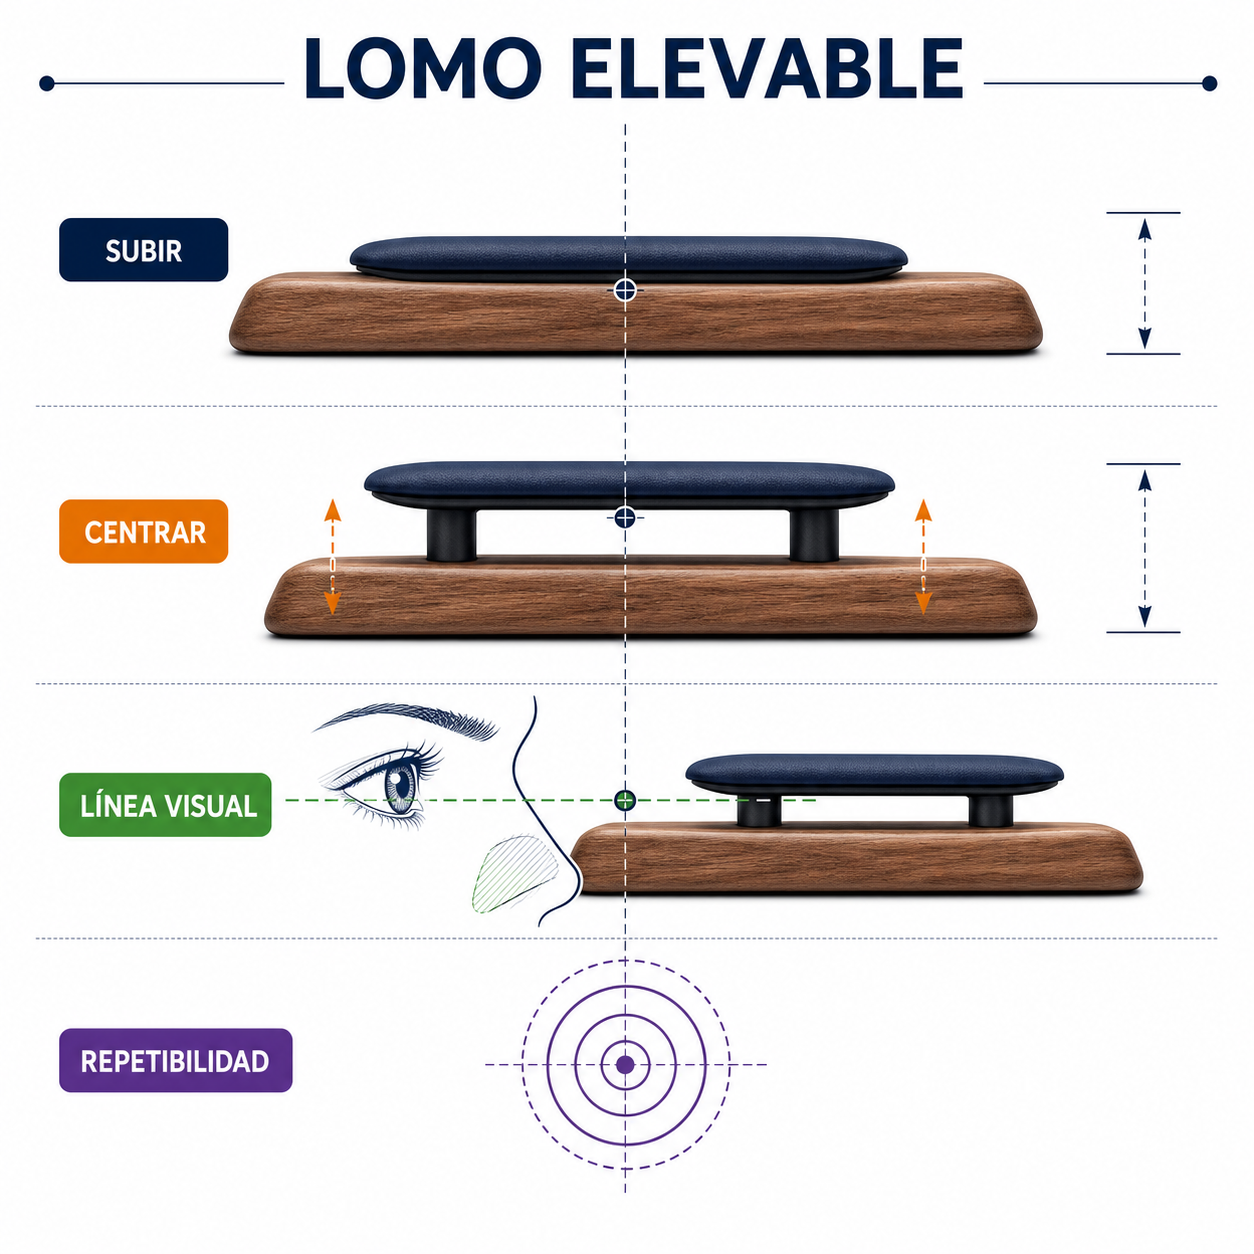
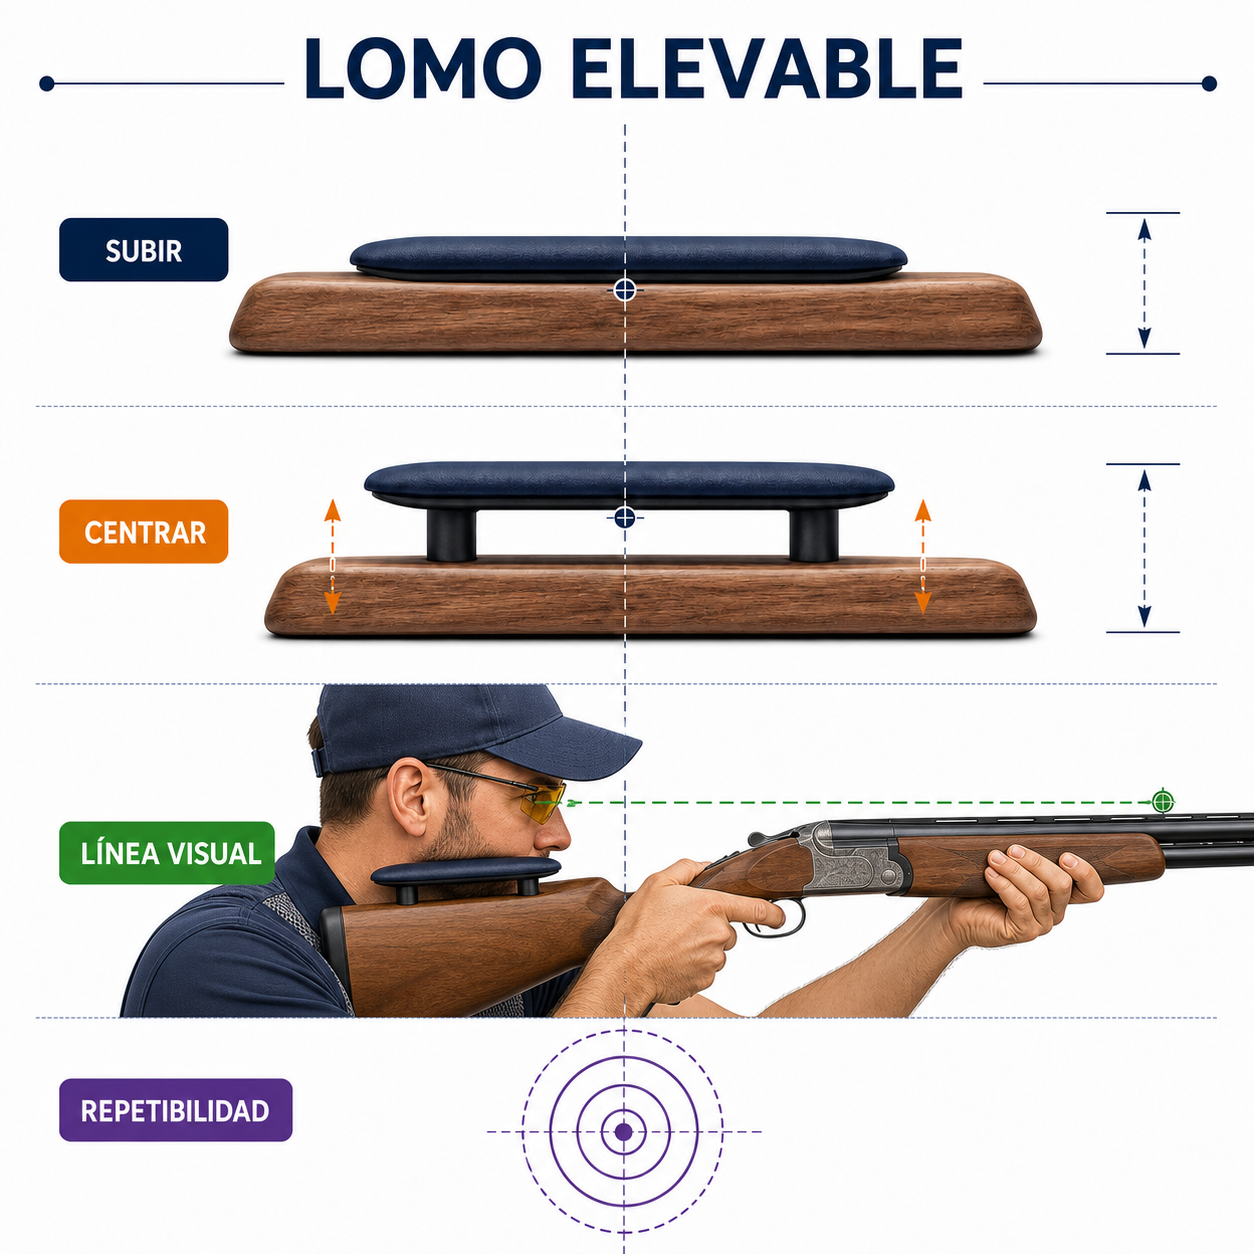
docs: corrige la geometria del lomo elevable

diff --git a/index.html b/index.html
@@ -1165,7 +1165,7 @@
   <p class="section-lead">El lomo elevable mueve la carrillera en altura y, normalmente, hacia los lados. Sirve para colocar el ojo de forma cómoda y repetible respecto a la banda. Al subirlo suele elevarse el punto de impacto; al desplazarlo, se centra el ojo sin torcer la cabeza.</p>
   <p>Ver más banda puede ayudar a mantener a la vista un plato que sube, en vez de taparlo con el cañón. Pero el lomo no «levanta los perdigones» por sí solo. Cambia la relación entre ojo y arma, y el tirador reorienta el conjunto. Una banda regulable sí puede cambiar mecánicamente el punto de impacto en algunos modelos. Culata y banda pueden dar resultados parecidos en la plancha por caminos geométricos distintos.</p>
   <aside class="personal-note"><strong>Comentario personal.</strong> En mi caso, al ver más banda, lo más claro fue que podía mantener a la vista el plato ascendente en vez de taparlo con el cañón.</aside>
-  <figure class="figure micro-figure"><img loading="lazy" src="docs/manual-libro/assets/images/infografias/subapartados/05-09-lomo-elevable.png" alt="Tres posiciones de lomo elevable y su efecto sobre ojo, banda y punto de impacto" width="1254" height="1254"><figcaption>Subir, centrar, comprobar: cada movimiento del lomo cambia la posición del ojo y debe validarse con un patrón real.</figcaption></figure>
+  <figure class="figure micro-figure"><img loading="lazy" src="docs/manual-libro/assets/images/infografias/subapartados/05-09-lomo-elevable.png" alt="Ajuste del lomo elevable con la cantonera apoyada en el hombro, la mejilla sobre el lomo y el ojo alineado por encima de la culata con la solista" width="1254" height="1254"><figcaption>La culata se apoya en el hombro, la mejilla descansa sobre el lomo y el ojo queda alineado por encima con la solista. Subir, centrar y comprobar modifica esa relación y debe validarse con un patrón real.</figcaption></figure>
   <p>No debe moverse el lomo después de cada fallo. Un tiro bajo también puede venir de levantar la cabeza, parar el arma o leer mal la trayectoria. Se parte de una posición anotada, se hacen cambios pequeños y se comprueba el punto de impacto.</p>
   <p>Con el arma descargada y sin disparar, en la cancha se usa a veces una referencia sencilla: colocar dos monedas de un euro, una sobre otra, en la parte trasera de la banda. Si al encarar todavía se ve el punto de mira por encima, hay una ganancia visible. <strong>Es solo una comprobación orientativa; no sustituye el ajuste profesional ni la plancha de plomeo.</strong> Una configuración alta permite ver más plato y apuntar algo por debajo. Esa imagen puede exigir adaptación al volver a una escopeta de caza, con la que muchos tiradores cubren más la pieza.</p>
   <figure class="figure supplemental-figure"><img loading="lazy" src="docs/manual-libro/assets/images/infografias/extras/05-09-dos-monedas.png" alt="Vista desde el ojo del tirador que compara banda plana, dos monedas como referencia y ganancia visible" width="1254" height="1254"><figcaption>Las dos monedas ofrecen una referencia visual sencilla. La ganancia real y el punto de impacto se confirman en una plancha de plomeo.</figcaption></figure>
